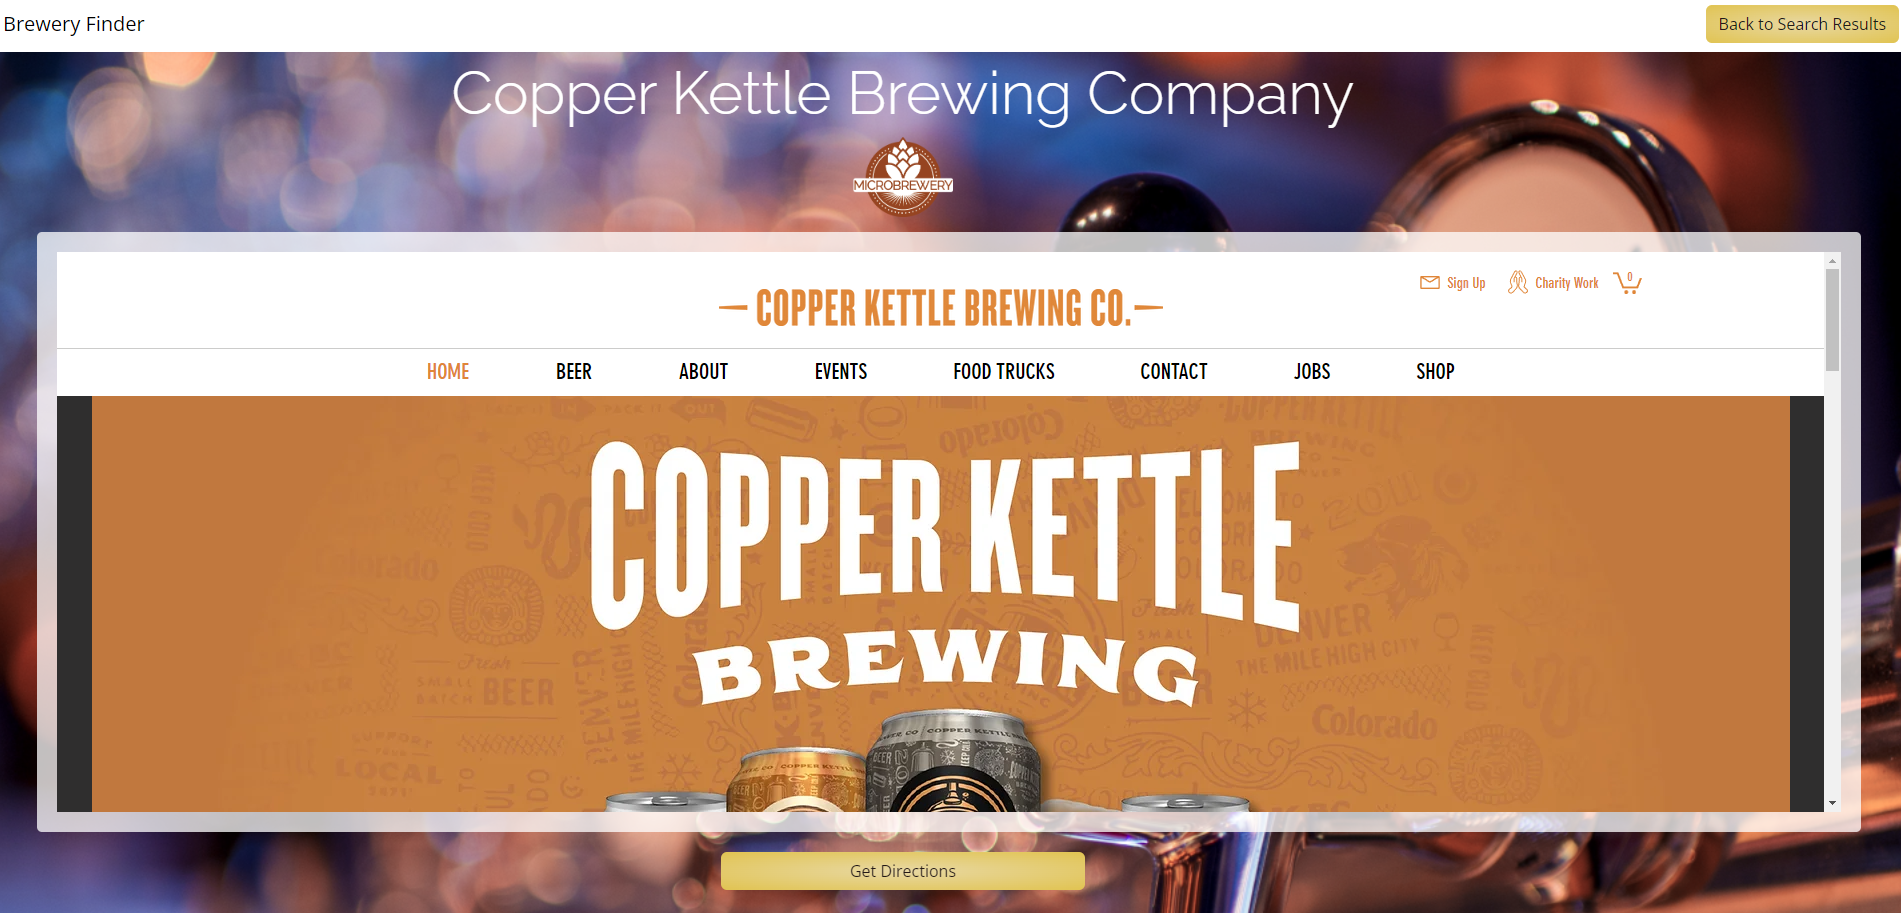
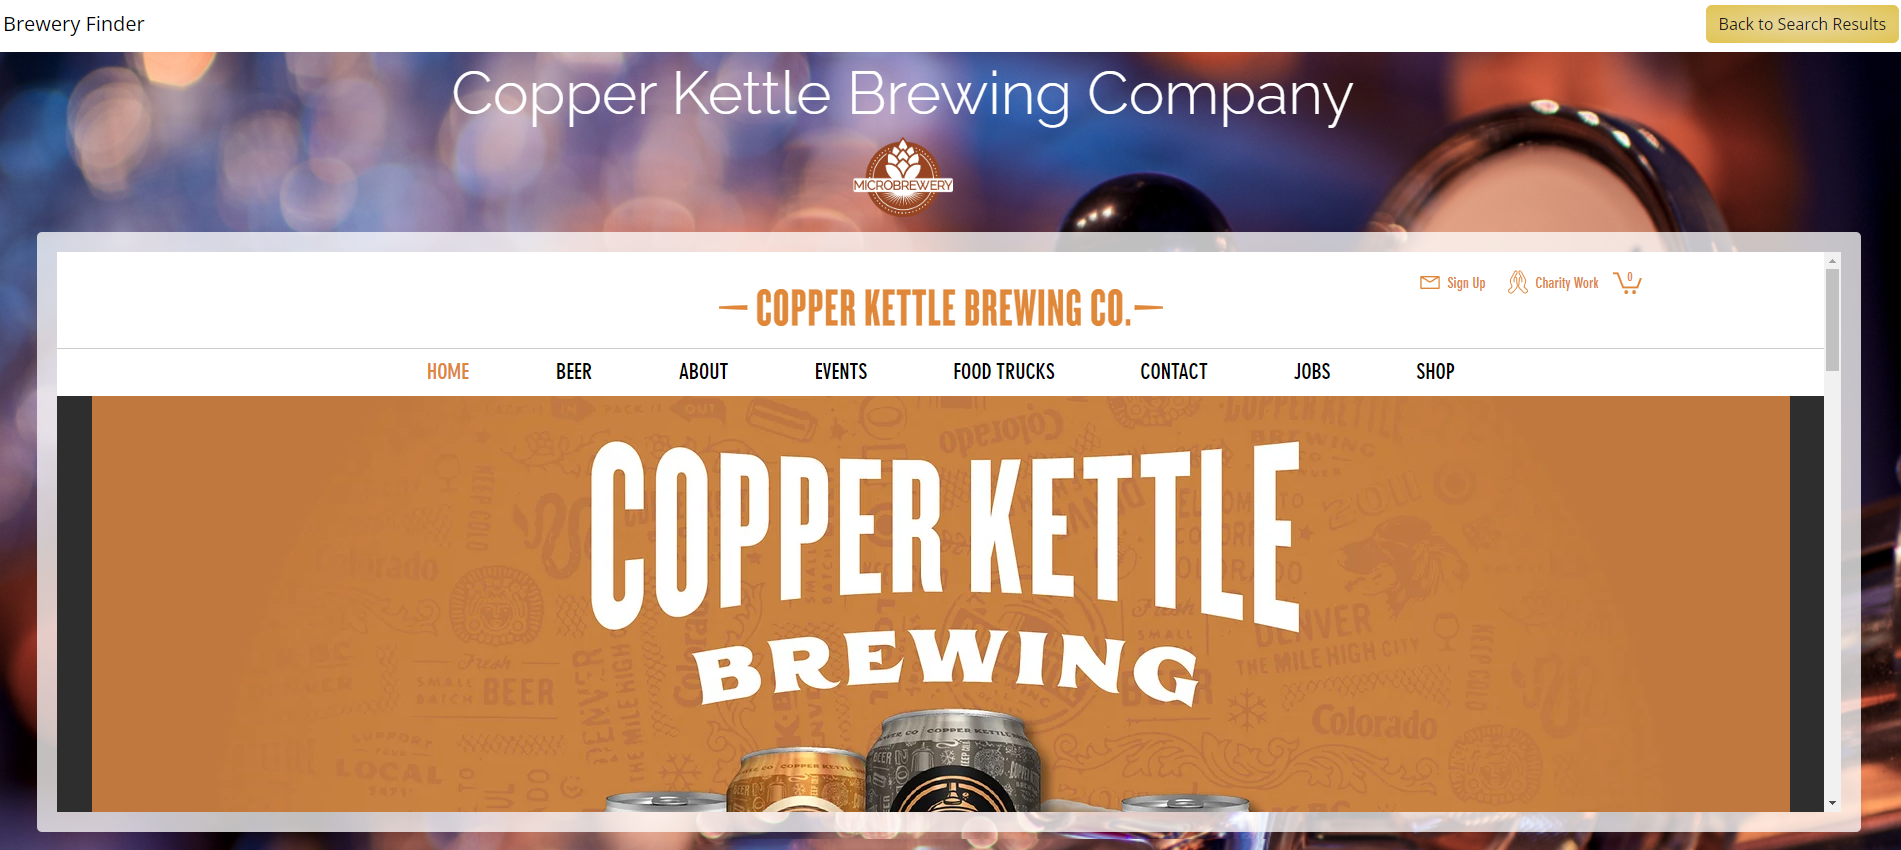
remove button in about page

diff --git a/directions.html b/directions.html
@@ -40,40 +40,10 @@
             <div id="directionssection" class="my-4">
                 <h4>Navigation Directions: </h4>
                 <div id="directionslist"></div>
-                <!--
-                <div id="directions-list-container" class="directions-list-container" tabindex="0">
-                    <div id="directionslist" class="directions-list my-4">
-                        <img class="input-group-text direction-icon" src="" alt="start icon"/>
-                        <p class="direction-information">Starting Address</p>
-                    </div>
-                    <div id="directionslist" class="directions-list my-4">
-                        <img class="input-group-text direction-icon" src="" alt="direction icon"/>
-                        <p class="direction-information">Directions Text</p>
-                    </div>
-                    <div id="directionslist" class="directions-list my-4">
-                        <img class="input-group-text direction-icon" src="" alt="direction icon"/>
-                        <p class="direction-information">Directions Text</p>
-                    </div>
-                    <div id="directionslist" class="directions-list my-4">
-                        <img class="input-group-text direction-icon" src="" alt="direction icon"/>
-                        <p class="direction-information">Directions Text</p>
-                    </div>
-                    <div id="directionslist" class="directions-list my-4">
-                        <img class="input-group-text direction-icon" src="" alt="direction icon"/>
-                        <p class="direction-information">Directions Text</p>
-                    </div>
-                    <div id="directionslist" class="directions-list my-4">
-                        <img class="input-group-text direction-icon" src="" alt="end icon"/>
-                        <p class="direction-information">End Address</p>
-                    </div>
-                </div>
-                -->
             </div>
         </div>
         <!-- map -->
         <div class="col-12 col-md-8 col-lg-9">
-            <!-- <h1 class="map-text">Map</h1> -->
-            <!-- <br/> -->
             <div id="map"></div>
         </div>
         </div>

diff --git a/brewery.html b/brewery.html
@@ -35,7 +35,7 @@
           <img class="brewery-size-icon hide" id="regional-icon" src="./assets/Photos/regional-Icon.png" alt=""/>
         </div>
         <div id="website-preview" class="website-preview"></div> <!-- Added div for website preview -->
-        <button id="about-directions-btn" class="btn about-direction-btn" type="get-directions">Get Directions</button> 
+        <!-- <button id="about-directions-btn" class="btn about-direction-btn" type="get-directions">Get Directions</button>  -->
       </div>
 
       <script src="https://code.jquery.com/jquery-3.5.1.slim.min.js"></script>
